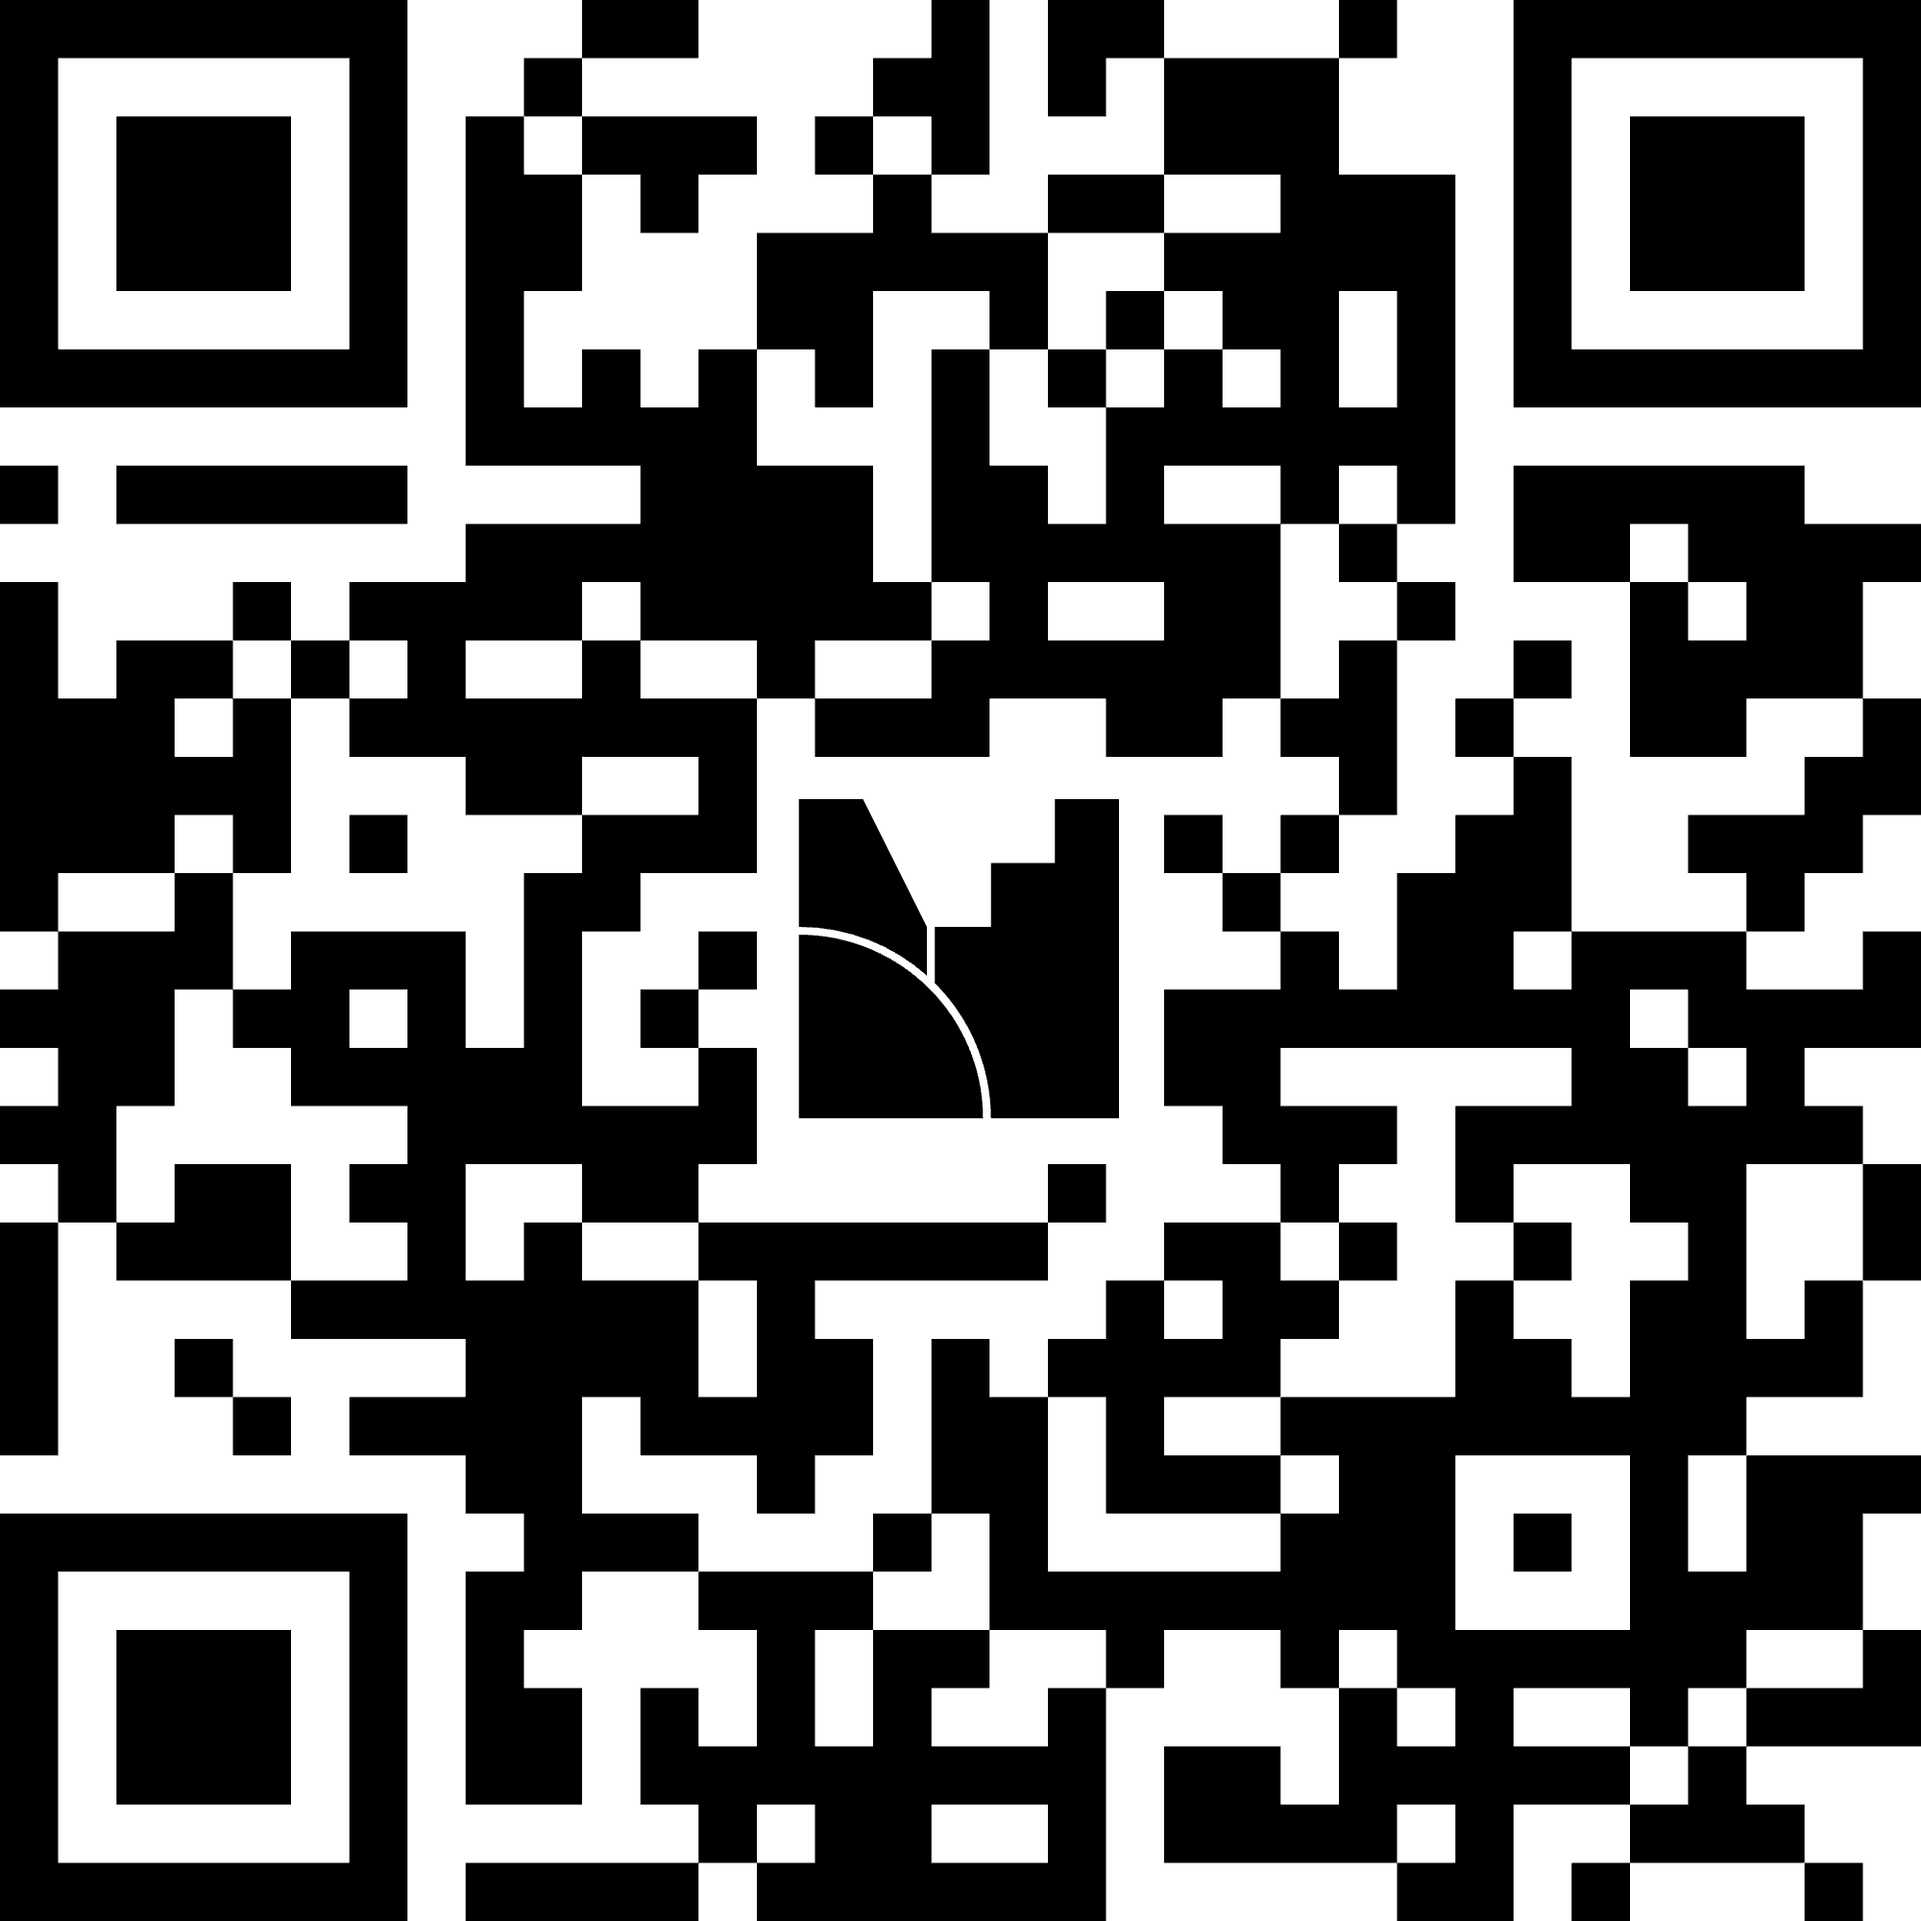
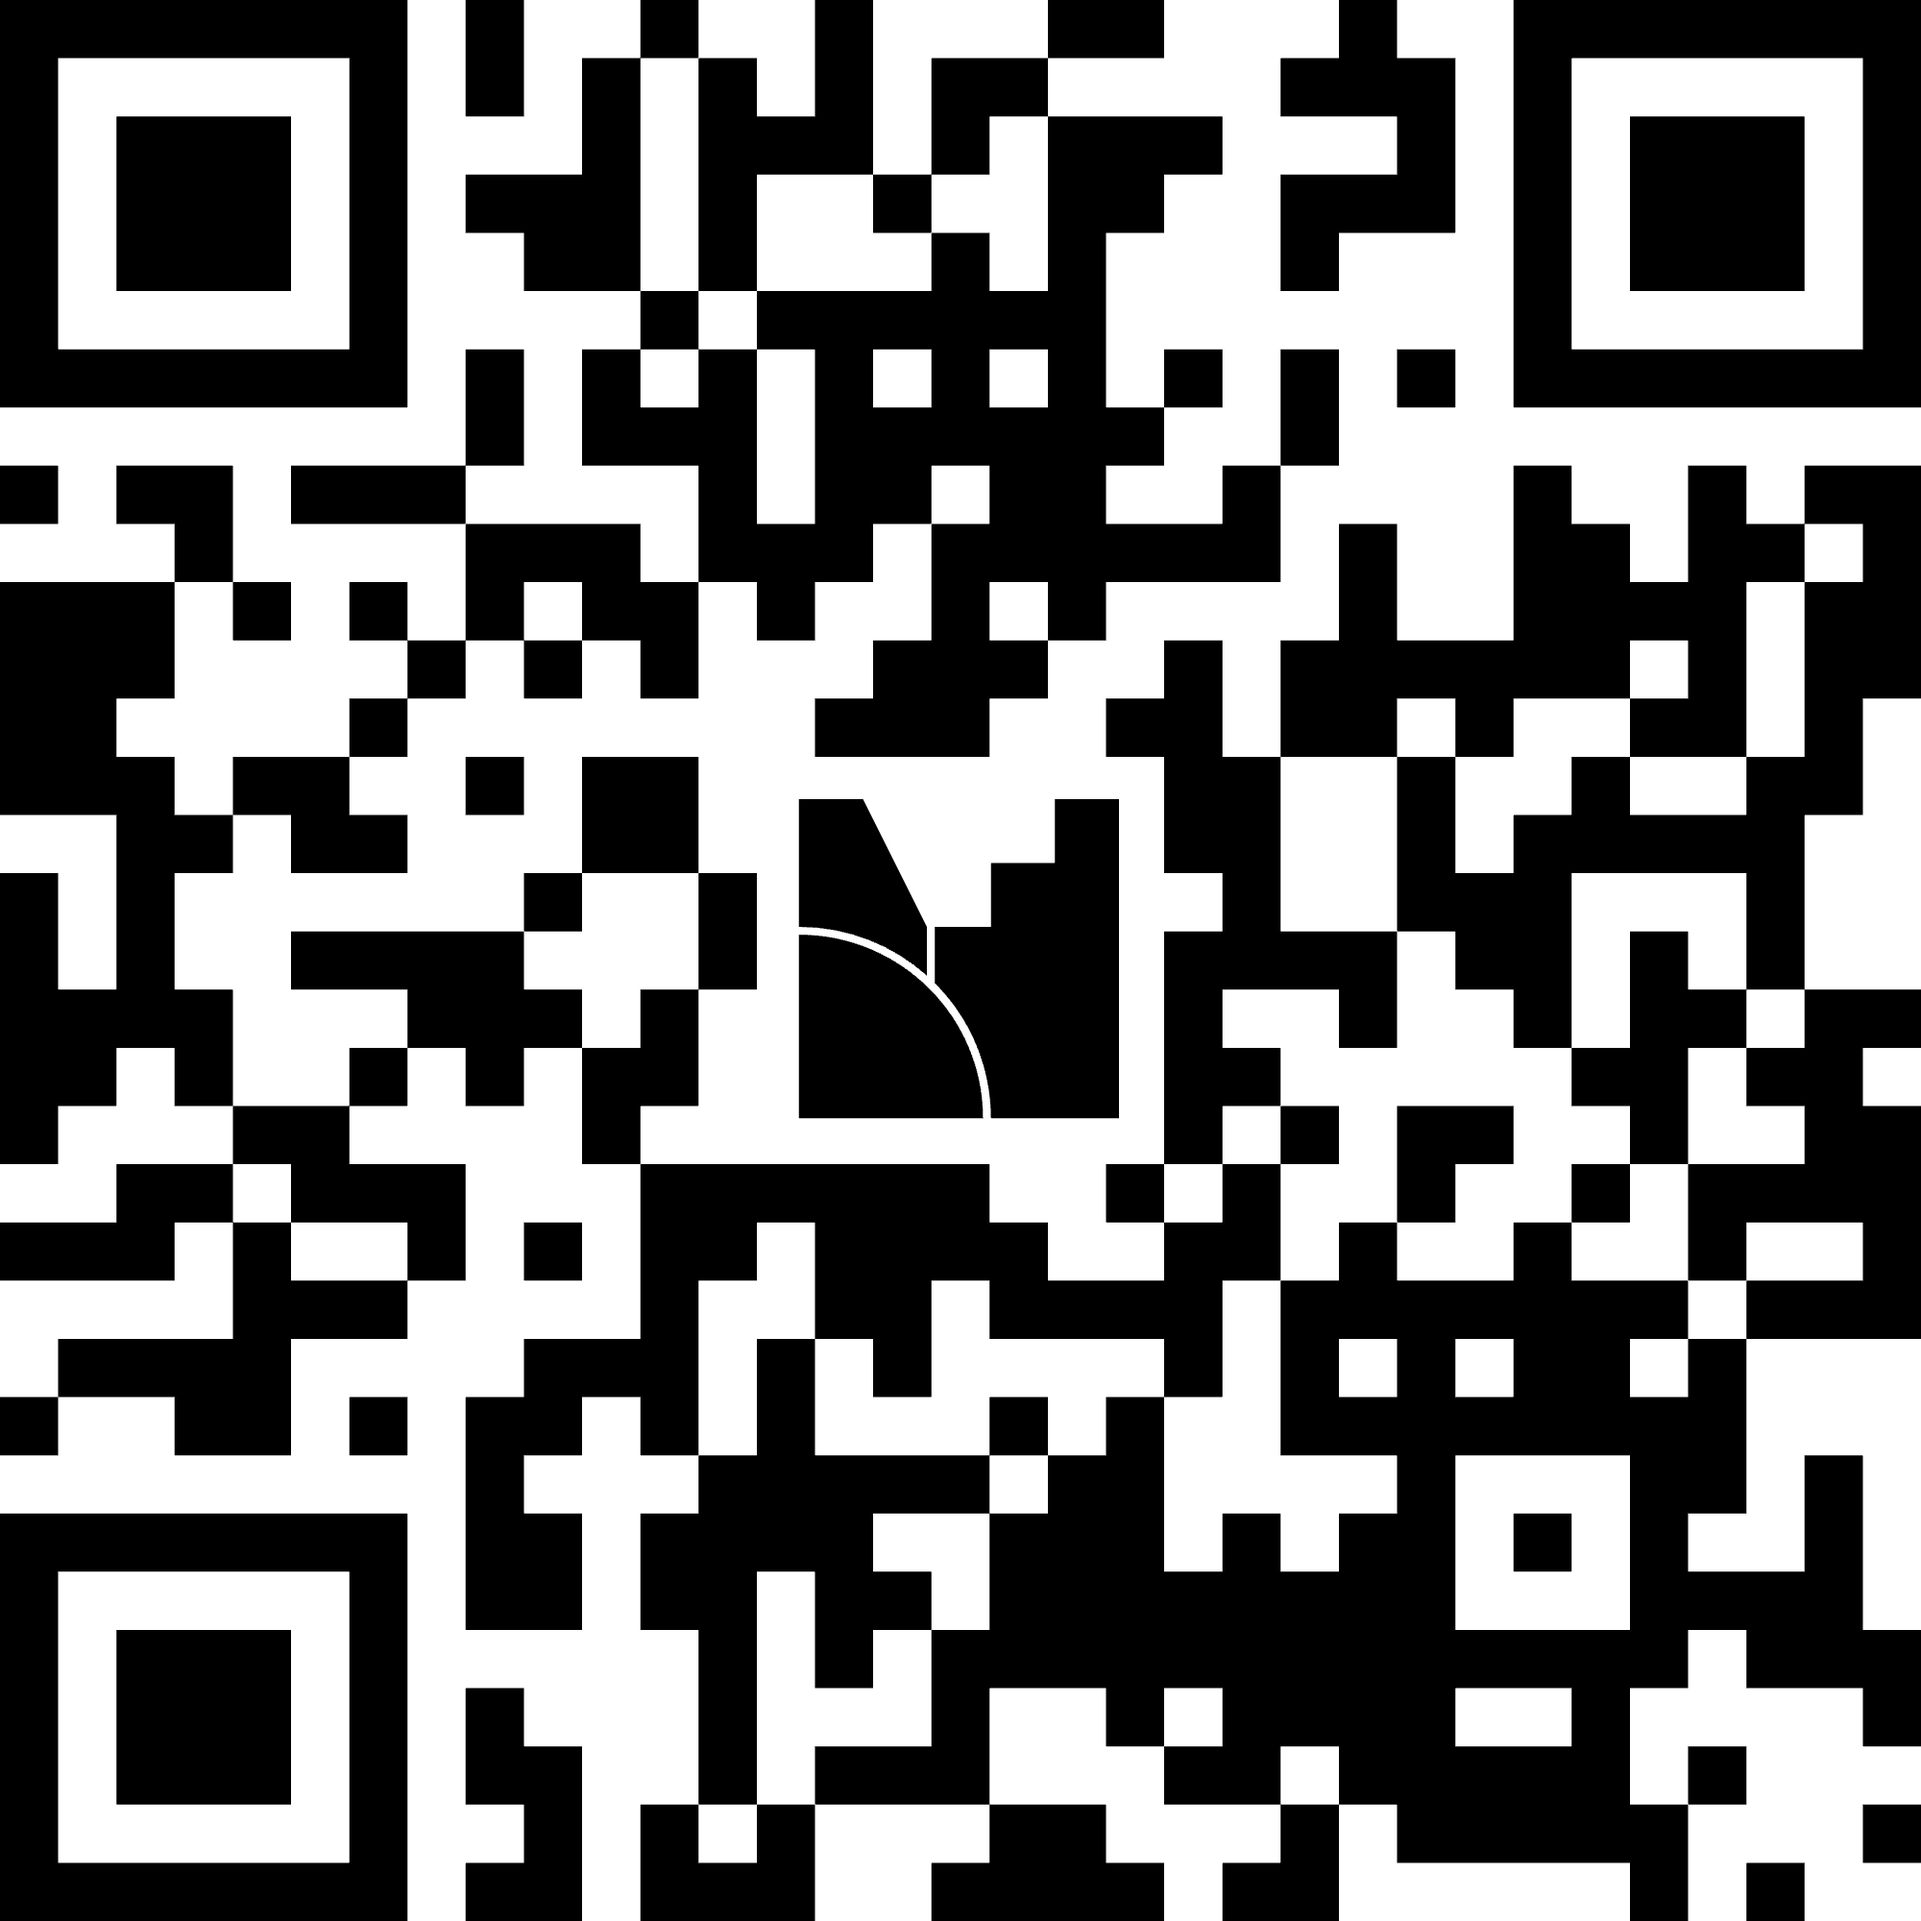
Trim slides and reframe narrative for short version
- Remove slides: What AI does wrong, Development flow, Yes you finish 1 week later, Design for oversight
- Add bridge slide: Our job is to solve problems not to write code
- Retitle practices slide: The faster you generate the more you need these
- Update Mentimeter code and QR

diff --git a/docs/slides/charla-slides-short-en.html b/docs/slides/charla-slides-short-en.html
@@ -1656,7 +1656,7 @@ body { background: #fff; }
     <div class="menti-card">
       <img class="menti-qr" src="ka_mentimeter_qr_code.png" alt="QR Mentimeter">
       <div class="menti-domain">menti.com</div>
-      <div class="menti-code">4736 5056</div>
+      <div class="menti-code">6756 1717</div>
     </div>
     <div class="menti-hint">Scan the QR or go to menti.com and enter the code</div>
   </div>
@@ -1702,43 +1702,6 @@ body { background: #fff; }
   </div>
 </section>
 
-<!-- ============================================================ -->
-<!-- SLIDE 7 — THE 4 PROBLEMS                                      -->
-<!-- ============================================================ -->
-<section class="slide s4" data-label="What AI does wrong">
-  <div class="bar"></div>
-  <div class="grid-bg"></div>
-  <div class="wm">04</div>
-  <div class="content">
-    <div class="eyebrow">
-      <div class="eyebrow-rule"></div>
-      <span class="eyebrow-text">The 4 problems</span>
-    </div>
-    <h2 class="h2">What AI does wrong</h2>
-    <div class="cards">
-      <div class="card reveal-item">
-        <div class="card-num">01</div>
-        <div class="card-title">No context</div>
-        <p class="card-text">At the start of each session, the AI knows nothing about your code. Zero.<br>And it does not know when it does not know enough.</p>
-      </div>
-      <div class="card reveal-item">
-        <div class="card-num">02</div>
-        <div class="card-title">Hallucinations</div>
-        <p class="card-text">It invents APIs, methods and dependencies that do not exist... and tells you with full confidence.</p>
-      </div>
-      <div class="card reveal-item">
-        <div class="card-num">03</div>
-        <div class="card-title">Not deterministic</div>
-        <p class="card-text">The same prompt can produce different results every time you run it.</p>
-      </div>
-      <div class="card reveal-item">
-        <div class="card-num">04</div>
-        <div class="card-title">Hard to review</div>
-        <p class="card-text">We generate code faster than our cognitive load allows us to review.</p>
-      </div>
-    </div>
-  </div>
-</section>
 
 <!-- ============================================================ -->
 <!-- SLIDE 8 — BRIDGE: WHY WE ARE SLOWER                           -->
@@ -1851,60 +1814,17 @@ body { background: #fff; }
   </div>
 </section>
 
+
 <!-- ============================================================ -->
-<!-- SLIDE 10 — DEVELOPMENT FLOW                                   -->
+<!-- SLIDE — CORE PRINCIPLE                                         -->
 <!-- ============================================================ -->
-<section class="slide s5" data-label="Development flow">
+<section class="slide s11" data-label="Our job">
   <div class="bar"></div>
   <div class="grid-bg"></div>
   <div class="wm">06</div>
   <div class="content">
-    <div class="eyebrow">
-      <div class="eyebrow-rule"></div>
-      <span class="eyebrow-text">The flow we already know</span>
-    </div>
-    <h2 class="h2">Separating the phases is not optional with AI</h2>
-    <div class="pipeline-wrap">
-      <div class="pipeline">
-        <div class="step reveal-item">
-          <div class="step-num">01</div>
-          <div class="step-name">Research</div>
-          <div class="step-sub">Context, constraints, decisions</div>
-        </div>
-        <div class="arrow reveal-item">&rarr;</div>
-        <div class="step reveal-item">
-          <div class="step-num">02</div>
-          <div class="step-name">Plan</div>
-          <div class="step-sub">Design, small steps, criteria</div>
-        </div>
-        <div class="arrow reveal-item">&rarr;</div>
-        <div class="step reveal-item">
-          <div class="step-num">03</div>
-          <div class="step-name">Implement in phases</div>
-          <div class="step-sub">Clean session, precise context</div>
-        </div>
-        <div class="arrow reveal-item">&rarr;</div>
-        <div class="step reveal-item">
-          <div class="step-num">04</div>
-          <div class="step-name">Validate</div>
-          <div class="step-sub">Tests, review, real feedback</div>
-        </div>
-      </div>
-      <div class="shortcut reveal-item" aria-hidden="true">
-        <div class="sc-arc"></div>
-        <span class="sc-label">One single session for everything</span>
-        <div class="sc-consequences">
-          <span>context overload</span>
-          <span>hallucinations</span>
-          <span>high non-determinism</span>
-        </div>
-      </div>
-      <div class="shortcut-x reveal-item" aria-hidden="true">&#x2715;</div>
-    </div>
-    <p class="pipeline-note reveal-item">
-      Each phase needs a clean context window.
-      </br><strong>Keep the context clean or you will have problems.</strong>
-    </p>
+    <p class="s11-statement">Our job is to<br>solve problems,<br><em>not to write code.</em></p>
+    <p class="note" style="text-align:center;max-width:min(60vw,720px);margin:0 auto;">That has never changed. AI just makes it more obvious when we forget it.</p>
   </div>
 </section>
 
@@ -1920,7 +1840,7 @@ body { background: #fff; }
       <div class="eyebrow-rule"></div>
       <span class="eyebrow-text">We already know what works</span>
     </div>
-    <h2 class="h2">The bottleneck has never been<br>lines of code per minute</h2>
+    <h2 class="h2">The faster you generate,<br>the more you need these</h2>
     <div class="practices">
       <div class="practice reveal-item">
         <div class="practice-bullet">01</div>
@@ -1955,88 +1875,7 @@ body { background: #fff; }
   </div>
 </section>
 
-<!-- ============================================================ -->
-<!-- SMALL SAFE STEPS — VALUE CURVE                                -->
-<!-- ============================================================ -->
-<section class="slide s-opt" data-label="Small safe steps: value">
-  <div class="bar"></div>
-  <div class="grid-bg"></div>
-  <div class="wm">08</div>
-  <div class="content">
-    <div class="eyebrow"><div class="eyebrow-rule"></div><span class="eyebrow-text">Small safe steps</span></div>
-    <h2 class="h2">Yes, you finish 1 week later.<br>The red area is what you <em style="font-style:normal;color:var(--accent)">gained along the way.</em></h2>
-    <svg class="opt-chart" viewBox="0 0 760 218" xmlns="http://www.w3.org/2000/svg" aria-hidden="true">
-      <!-- axes -->
-      <line x1="65" y1="12" x2="65" y2="185" stroke="#ccc" stroke-width="1.5"/>
-      <line x1="65" y1="185" x2="725" y2="185" stroke="#ccc" stroke-width="1.5"/>
-      <!-- day markers on axis -->
-      <line x1="545" y1="181" x2="545" y2="189" stroke="#6b7280" stroke-width="1.5"/>
-      <text x="545" y="200" font-family="'Space Mono',monospace" font-size="10" fill="#6b7280" text-anchor="middle">week 3</text>
-      <line x1="705" y1="181" x2="705" y2="189" stroke="#ff3300" stroke-width="1.5"/>
-      <text x="705" y="200" font-family="'Space Mono',monospace" font-size="10" fill="#ff3300" text-anchor="middle">week 4</text>
-      <text x="65" y="200" font-family="'Space Mono',monospace" font-size="10" fill="#999" text-anchor="middle">week 0</text>
-      <!-- Lost opportunity area -->
-      <polygon points="65,185 161,185 161,150 265,150 265,115 385,115 385,80 505,80 505,50 545,50 545,185" fill="rgba(255,51,0,0.15)"/>
-      <!-- Big release: flat until day 60, then jumps to full -->
-      <polyline points="65,185 545,185 545,25 725,25" fill="none" stroke="#d1d5db" stroke-width="3" stroke-linejoin="round"/>
-      <circle cx="545" cy="25" r="5" fill="#6b7280"/>
-      <text x="553" y="22" font-family="'Archivo',sans-serif" font-size="11" font-weight="700" fill="#6b7280">Big release</text>
-      <!-- Small steps staircase — finishes at day 80 -->
-      <polyline points="65,185 161,185 161,150 265,150 265,115 385,115 385,80 505,80 505,50 705,50 705,25" fill="none" stroke="#ff3300" stroke-width="3" stroke-linejoin="round"/>
-      <circle cx="705" cy="25" r="5" fill="#ff3300"/>
-      <text x="713" y="22" font-family="'Archivo',sans-serif" font-size="11" font-weight="700" fill="#ff3300">Small steps</text>
-      <!-- delivery dots -->
-      <circle cx="161" cy="150" r="4" fill="#ff3300"/>
-      <circle cx="265" cy="115" r="4" fill="#ff3300"/>
-      <circle cx="385" cy="80" r="4" fill="#ff3300"/>
-      <circle cx="505" cy="50" r="4" fill="#ff3300"/>
-      <!-- lost area annotation -->
-      <text x="430" y="165" font-family="'Archivo Black',sans-serif" font-size="12" fill="rgba(255,51,0,0.6)" text-anchor="middle">value delivered</text>
-      <!-- vertical dashed line at day 60 -->
-      <line x1="545" y1="12" x2="545" y2="185" stroke="#6b7280" stroke-width="1" stroke-dasharray="4,3"/>
-    </svg>
-    <p class="opt-note">Big release delivers everything on week 3 but accumulates nothing before. Small steps finishes 1 week later, but the red area represents real feedback, real users, real value delivered throughout.</p>
-  </div>
-</section>
 
-<!-- ============================================================ -->
-<!-- SLIDE 12 — GUARDRAILS + CHECKLIST                             -->
-<!-- ============================================================ -->
-<section class="slide s8" data-label="Design for oversight">
-  <div class="bar"></div>
-  <div class="grid-bg"></div>
-  <div class="wm">09</div>
-  <div class="content">
-    <div class="eyebrow">
-      <div class="eyebrow-rule"></div>
-      <span class="eyebrow-text">Design for oversight</span>
-    </div>
-    <h2 class="h2">You cannot review every line.<br>Design systems that catch the errors.</h2>
-    <div class="two-col">
-      <div class="col-panel col-guardrails reveal-item">
-        <div class="col-icon">Automated</div>
-        <p class="col-title">Technical guardrails</p>
-        <ul class="item-list">
-          <li>Hooks: automatic linter on every tool use</li>
-          <li>Architecture tests: verify structure, not just functionality</li>
-          <li>Acceptance Testing: expected behavior defined upfront</li>
-          <li>Mature CI/CD: if it is not reliable with humans, it will be chaos with agents</li>
-          <li>Agent permissions: define what it can do without approval and what it cannot</li>
-        </ul>
-      </div>
-      <div class="col-panel col-checklist reveal-item">
-        <div class="col-icon">Human judgment</div>
-        <p class="col-title">Pre-merge checklist</p>
-        <ul class="check-list">
-          <li><span class="cat">Domain</span><span>The code reflects domain concepts, not technical jargon</span></li>
-          <li><span class="cat">Quality</span><span>Do the tests fail when the behavior fails?</span></li>
-          <li><span class="cat">Ops</span><span>Is there traceability if this fails in prod?</span></li>
-          <li><span class="cat">Debt</span><span>Could I delete this and nobody would notice?</span></li>
-        </ul>
-      </div>
-    </div>
-  </div>
-</section>
 
 <!-- ============================================================ -->
 <!-- SLIDE 13 — REAL CASE: THE PLAN                                -->
